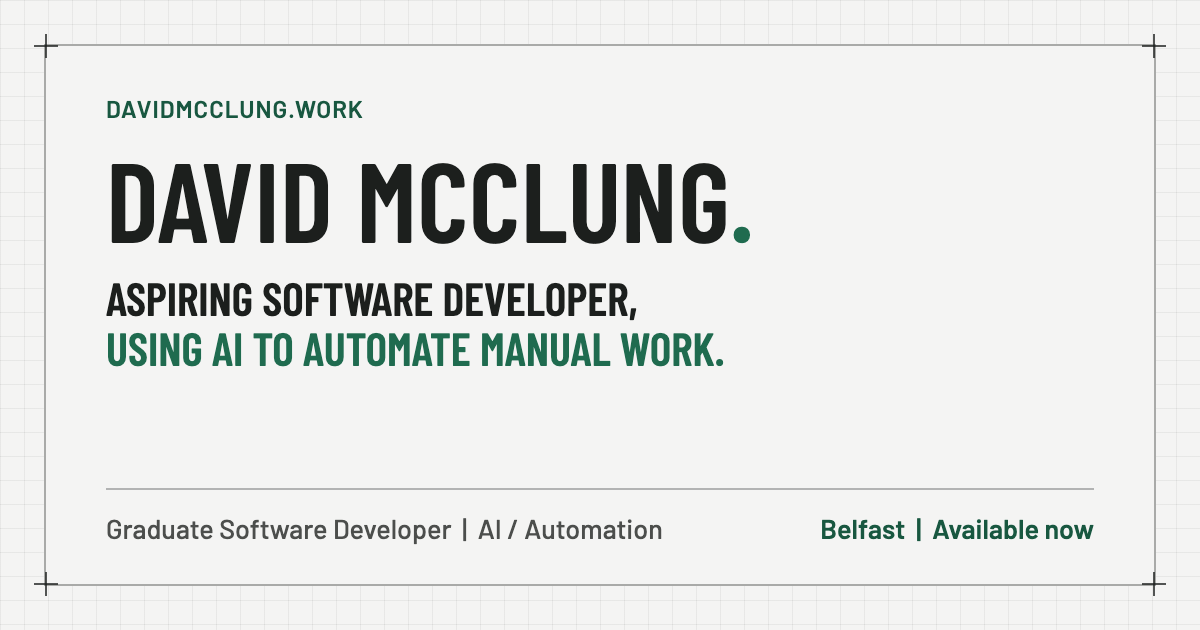
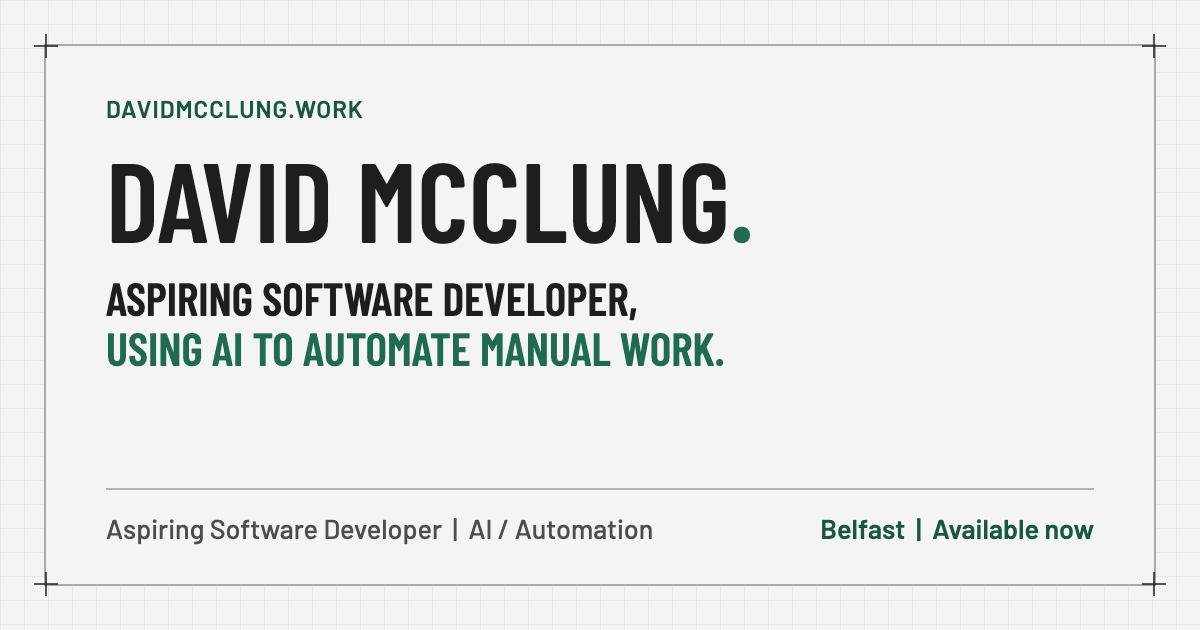
Describe roles as aspiring instead of graduate
Updates the hero, contact wording, share text, link-preview image, alt
text, README and CV so they describe an aspiring software developer
looking for software and AI / automation roles.

Claude-Session: https://claude.ai/code/session_014HLUKx7sif6mnrLJRMCB2S

Changed region(s): [[0.0925, 0.8143, 0.555, 0.8746]]

diff --git a/src/app/layout.tsx b/src/app/layout.tsx
@@ -19,12 +19,12 @@ export const metadata: Metadata = {
   alternates: { canonical: "/" },
   title: "David McClung | Aspiring Software Developer",
   description:
-    "MSc AI in Business student at Queen's University Belfast using AI to automate manual work. Available now for graduate software developer and AI / automation roles in Belfast.",
+    "Aspiring software developer and MSc AI in Business student at Queen's University Belfast, using AI to automate manual work. Available now for software and AI / automation roles in Belfast.",
   // Link previews on LinkedIn, Slack, email and X; the image comes from app/opengraph-image.png
   openGraph: {
     title: "David McClung | Aspiring Software Developer",
     description:
-      "Graduate software developer and AI / automation roles in Belfast. Available now.",
+      "Aspiring software developer looking for software and AI / automation roles in Belfast. Available now.",
     url: "/",
     siteName: "David McClung",
     locale: "en_GB",
@@ -34,7 +34,7 @@ export const metadata: Metadata = {
     card: "summary_large_image",
     title: "David McClung | Aspiring Software Developer",
     description:
-      "Graduate software developer and AI / automation roles in Belfast. Available now.",
+      "Aspiring software developer looking for software and AI / automation roles in Belfast. Available now.",
   },
 };
 

diff --git a/src/components/Contact.tsx b/src/components/Contact.tsx
@@ -14,7 +14,8 @@ export function Contact() {
             Let&apos;s work together.
           </h2>
           <p className="mt-3 max-w-[56ch] text-[15px] leading-relaxed opacity-85">
-            I&apos;m looking for {profile.targetRoles} in {profile.workPreference}.
+            I&apos;m an aspiring software developer looking for {profile.targetRoles} in{" "}
+            {profile.workPreference}.
             {" "}{profile.status}. <br />Email is the best way to reach me.
           </p>
           <div className="mt-6 flex flex-wrap gap-3">

diff --git a/src/components/Hero.tsx b/src/components/Hero.tsx
@@ -13,7 +13,7 @@ export function Hero() {
           I&apos;m studying for an MSc in Artificial Intelligence in Business at
           Queen&apos;s University Belfast. My internship opened my eyes to
           software development and AI automation. I&apos;m now looking for
-          graduate roles in the field, while building my skills through
+          my first role in the field, while building my skills through
           certifications and working on my own software projects in my free
           time.
         </p>

diff --git a/src/lib/content.ts b/src/lib/content.ts
@@ -3,7 +3,7 @@ export const profile = {
   role: "Aspiring AI Engineer & Full-Stack Developer",
   location: "Belfast, UK",
   status: "Available now",
-  targetRoles: "graduate software developer and AI / automation roles",
+  targetRoles: "software and AI / automation roles",
   workPreference: "Belfast, hybrid or on-site",
   email: "davidmcclung15@outlook.com",
   github: "https://github.com/davidmcclungeng",

diff --git a/README.md b/README.md
@@ -2,7 +2,7 @@
 
 Live at **[davidmcclung.work](https://davidmcclung.work)**
 
-Personal portfolio for David McClung, an MSc AI in Business student at Queen's University Belfast looking for graduate software developer and AI / automation roles. The site covers the projects I have worked on (Bat Analytics Pro at Tetra Tech, Ledger, and the Premier Sound Solutions website), my experience and education, and links to my CV.
+Personal portfolio for David McClung, an aspiring software developer and MSc AI in Business student at Queen's University Belfast, looking for software and AI / automation roles. The site covers the projects I have worked on (Bat Analytics Pro at Tetra Tech, Ledger, and the Premier Sound Solutions website), my experience and education, and links to my CV.
 
 ## Stack
 
